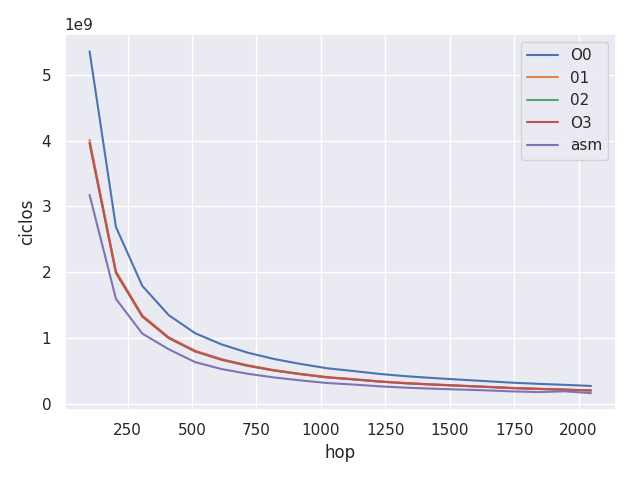
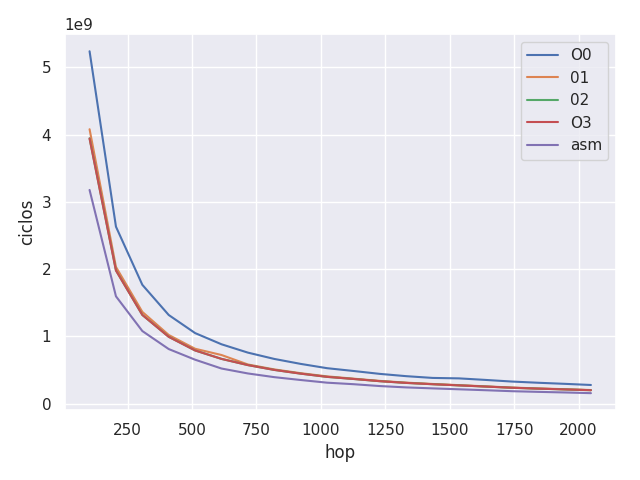
nueva corrida test stretch

diff --git a/tester/test_stretch.c b/tester/test_stretch.c
@@ -120,7 +120,7 @@ void compC_hop() {
 		for (int j = 0; j < repeticiones; ++j)
 		{
 			MEDIR_TIEMPO_START(start);
-			stretch_asm(a,sizeA,f,window_size, hop);
+			stretch(a,sizeA,f,window_size, hop);
 			MEDIR_TIEMPO_STOP(end);
 			mean += end - start;
 		}
@@ -136,5 +136,7 @@ void compC_hop() {
 int main(int argc, char const *argv[])
 {
 	compC_hop();
+	compC_f();
+	compC_audio_size();
 	return 0;
 }
